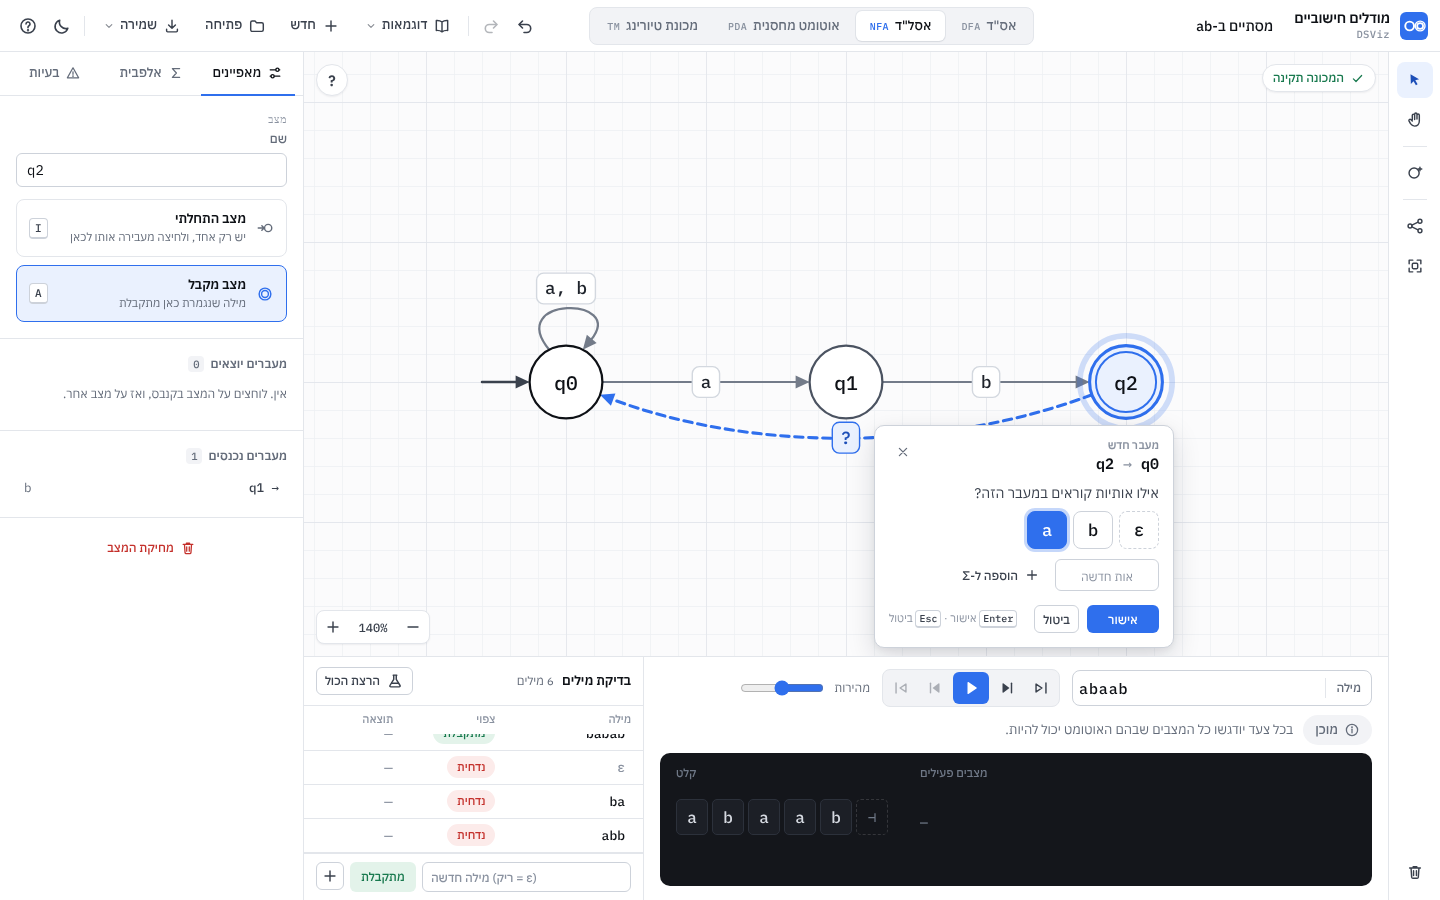
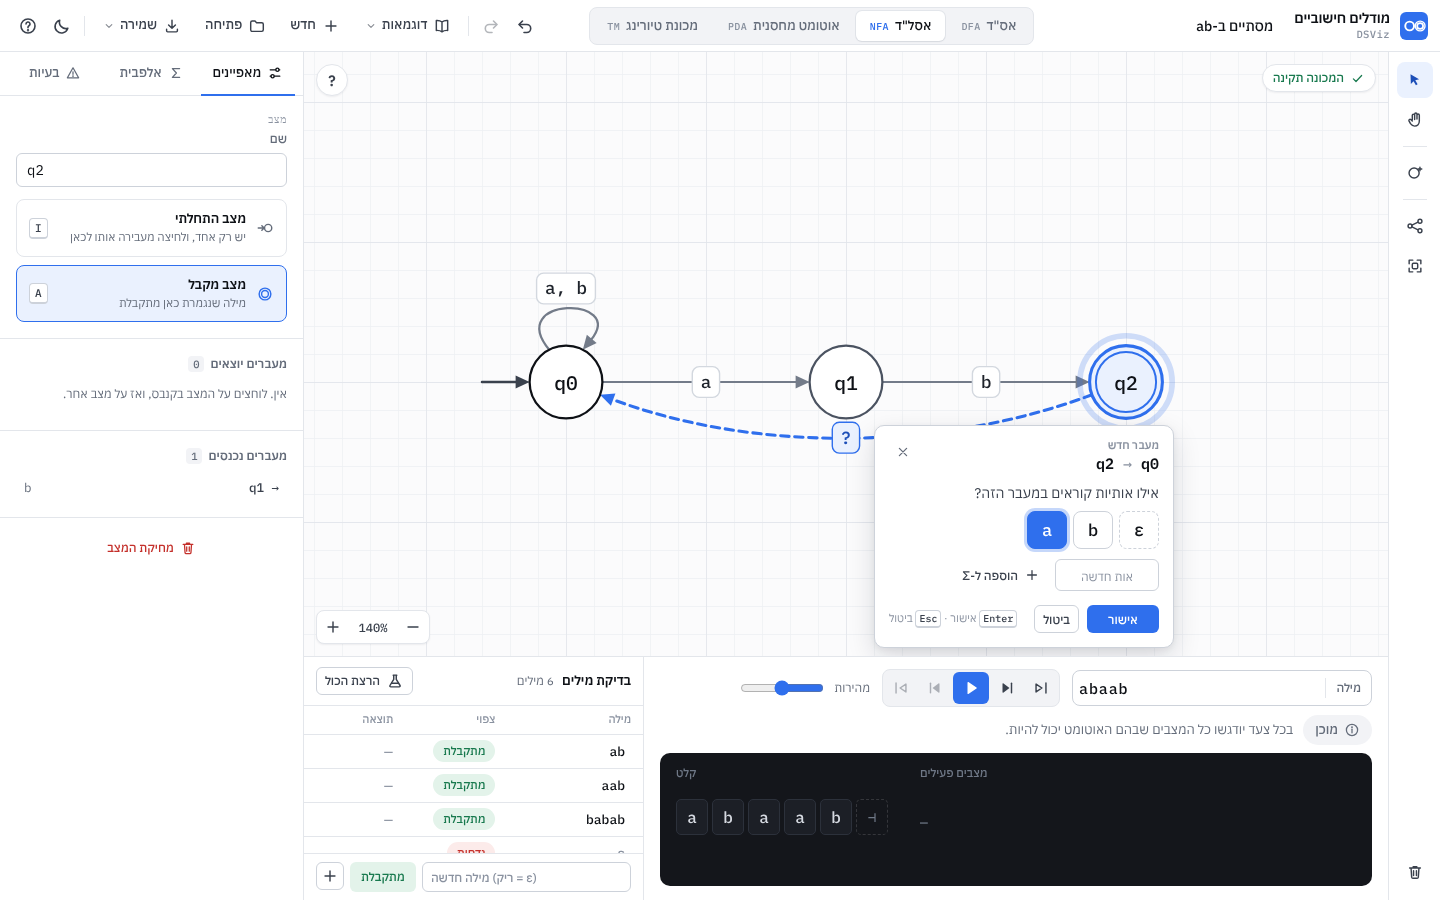
מודלים חישוביים: רמזים לפי מה שחסר, ההדרכה לא מסתירה את המכונה, תיקון לחיצה על הקנבס
- App.coach: רמז קצר למעלה (מצב שני, מעבר ראשון, מצב מקבל).
- כרטיס ההדרכה הצף מזיז את המכונה הצידה במקום להסתיר אותה.
- באג: data-tool על הקנבס גרם ללחיצה על רקע להפעיל setTool ולבטל מעבר שהתחיל.
- e2e/flow.js בודק גם את הרמז. צילומים מעודכנים.

Claude-Session: https://claude.ai/code/session_01UCquMSqFVSTwN4KTsZFYci

Changed region(s): [[0.2812, 0.8089, 0.3438, 0.9333], [0.4062, 0.8711, 0.4375, 0.9333], [0.4062, 0.8089, 0.4375, 0.84]]

diff --git a/java-visualizer/automata/app/js/app.js b/java-visualizer/automata/app/js/app.js
@@ -47,7 +47,7 @@
       this.bindKeys();
       this.renderExamplesMenu();
       this.switchType(this.active, true);
-      requestAnimationFrame(() => { if (!this.machine.view.placed) { this.canvas.fit(); this.machine.view.placed = true; } });
+      requestAnimationFrame(() => { if (!this.machine.view.placed) { const g = root.Guide.el; this.canvas.fit(g.hidden || g.dataset.mode !== 'float' ? 0 : g.offsetWidth + 24); this.machine.view.placed = true; } });
     },
 
     load() {
@@ -137,7 +137,7 @@
       const quiet = keepArm;
       this.sel.states = new Set(states || []);
       this.sel.trans = new Set(trans || []);
-      if (!keepArm && this.canvas.source) { this.canvas.source = null; this.hint(null); }
+      if (!keepArm && this.canvas.source) { this.canvas.source = null; this.coach(); }
       if (this.side.tab !== 'props' && (states.length || trans.length) && !quiet && this.side.tab !== 'issues') this.side.tab = 'props';
       this.canvas.render();
       this.side.render();
@@ -241,7 +241,7 @@
       this.tool = t;
       this.canvas.source = null;
       $$('.rail [data-tool]').forEach((b) => b.setAttribute('aria-pressed', String(b.dataset.tool === t)));
-      this.canvas.host.dataset.tool = t;
+      this.canvas.host.dataset.activeTool = t;
       this.hint(null);
     },
 
@@ -307,6 +307,18 @@
       this.runPanel.render();
       this.renderTop();
       root.Guide.update();
+      this.coach();
+    },
+
+    /** רמז קצר למעלה, לפי מה שחסר עכשיו (למי שבונה מכונה בפעם הראשונה). */
+    coach() {
+      if (!this.canvas || this.canvas.source || this.isRunning() || (this.popover && this.popover.isOpen())) return;
+      const m = this.machine;
+      let t = null;
+      if (m.states.length === 1) t = 'עוד לחיצה כפולה במקום אחר על הקנבס מוסיפה מצב שני';
+      else if (m.states.length >= 2 && !m.transitions.length) t = 'עכשיו מעבר: לוחצים על מצב, ואז על מצב אחר';
+      else if (m.transitions.length && !m.states.some((s) => s.accepting) && !(m.type === 'pda' && m.acceptBy === 'empty')) t = 'אין מצב מקבל: לוחצים על מצב, ובסרגל השחור בוחרים "מקבל"';
+      this.hint(t);
     },
 
     renderTop() {

diff --git a/java-visualizer/automata/app/js/canvas.js b/java-visualizer/automata/app/js/canvas.js
@@ -70,16 +70,19 @@
       this.closeEditor(true);
     }
     zoomBy(f) { const s = this.size(); this.zoomAt(s.w / 2, s.h / 2, f); this.app.autosave(); }
-    fit() {
+    /** inset: פיקסלים בצד שמאל של הקנבס שמכוסים (למשל בכרטיס ההדרכה), כדי שהמכונה תיכנס לידם. */
+    fit(inset) {
       const st = this.m.states;
       const s = this.size();
+      inset = inset && s.w - inset > 420 ? inset : 0;
+      s.w -= inset;
       if (!st.length) { this.view.x = s.w / 2; this.view.y = s.h / 2; this.view.zoom = 1; this.applyView(); return; }
       const xs = st.map((q) => q.x), ys = st.map((q) => q.y);
       const pad = 100;
       const minX = Math.min(...xs) - pad, maxX = Math.max(...xs) + pad, minY = Math.min(...ys) - pad - 40, maxY = Math.max(...ys) + pad;
       const z = Math.min(1.4, Math.max(0.4, Math.min(s.w / (maxX - minX), s.h / (maxY - minY))));
       this.view.zoom = Math.round(z * 1000) / 1000;
-      this.view.x = s.w / 2 - ((minX + maxX) / 2) * z;
+      this.view.x = inset + s.w / 2 - ((minX + maxX) / 2) * z;
       this.view.y = s.h / 2 - ((minY + maxY) / 2) * z;
       this.applyView();
     }
@@ -185,7 +188,7 @@
       this.host.classList.toggle('is-empty', !m.states.length);
       this.host.classList.toggle('arming', !!this.source);
       this.host.classList.toggle('running', app.isRunning());
-      this.host.dataset.tool = app.tool;
+      this.host.dataset.activeTool = app.tool;
     }
 
     /** חץ "גומי" מהמצב שנבחר כמקור אל הסמן (או אל המצב שמתחת לסמן). */

diff --git a/java-visualizer/automata/app/js/guide.js b/java-visualizer/automata/app/js/guide.js
@@ -49,11 +49,14 @@
       const empty = !this.app.machine.states.length;
       const show = empty || this.pinned;
       this.el.hidden = !show;
+      if (!show) this.el.dataset.mode = '';
       $('#guide-btn').setAttribute('aria-expanded', String(show));
       if (!show) return;
       const mode = empty ? 'empty' : 'float';
       if (this.el.dataset.mode === mode) return;
       this.el.dataset.mode = mode;
+      // הכרטיס הצף יושב בצד שמאל: מזיזים את המכונה כדי שלא תוסתר
+      if (mode === 'float') requestAnimationFrame(() => this.app.canvas.fit(this.el.offsetWidth + 24));
       this.el.innerHTML =
         '<div class="guide-head"><h2>' + (empty ? 'בונים מכונה בשלושה צעדים' : 'איך בונים') + '</h2>' +
         (empty ? '' : '<button type="button" class="pop-x" data-g="close" aria-label="סגירת ההדרכה">' + I.get('x', 16) + '</button>') + '</div>' +

diff --git a/java-visualizer/automata/app/css/canvas.css b/java-visualizer/automata/app/css/canvas.css
@@ -6,7 +6,7 @@
 .canvas { display: block; width: 100%; height: 100%; touch-action: none; user-select: none; -webkit-user-select: none; }
 .grid-line { fill: none; stroke: var(--grid); stroke-width: 1; vector-effect: non-scaling-stroke; }
 .grid-line-major { fill: none; stroke: var(--grid-major); stroke-width: 1; vector-effect: non-scaling-stroke; }
-.stage[data-tool=hand] .canvas, .stage.space .canvas { cursor: grab; }
+.stage[data-active-tool=hand] .canvas, .stage.space .canvas { cursor: grab; }
 .stage.panning .canvas { cursor: grabbing !important; }
 .stage.arming .canvas, .stage.arming .st { cursor: crosshair; }
 

diff --git a/java-visualizer/automata/app/e2e/flow.js b/java-visualizer/automata/app/e2e/flow.js
@@ -45,6 +45,7 @@ const URL = 'file://' + path.resolve(__dirname, '..', 'index.html');
     for (const dx of [-240, 0, 240]) { await p.mouse.dblclick(st.x + dx, st.y + (dx ? 0 : 110)); await p.waitForTimeout(150); }
     assert.deepEqual((await machine()).states, ['q0', 'q1', 'q2']);
     assert.equal(await visible('#guide'), false);
+    assert.match(await p.textContent('#hint'), /עכשיו מעבר/, 'רמז: מה עושים עכשיו');
   });
 
   await step('לחיצה על מצב: הוא המקור, וחץ מקווקו הולך אחרי הסמן', async () => {

diff --git a/java-visualizer/automata/app/js/app-ui.js b/java-visualizer/automata/app/js/app-ui.js
@@ -107,7 +107,7 @@
         if (ex) { this.toggleMenu('examples-menu', null, false); this.loadExample(ex.dataset.example); return; }
         const b = e.target.closest('[data-cmd]');
         if (b && !b.disabled) { cmd(b.dataset.cmd, b); return; }
-        const tool = e.target.closest('[data-tool]');
+        const tool = e.target.closest('.rail [data-tool]');
         if (tool) { this.setTool(tool.dataset.tool); return; }
         const tab = e.target.closest('#type-tabs [data-type]');
         if (tab) { this.switchType(tab.dataset.type); return; }

diff --git a/java-visualizer/automata/app/js/popover.js b/java-visualizer/automata/app/js/popover.js
@@ -41,6 +41,7 @@
       this.app.canvas.preview = t ? null : { from: this.from, to: this.to };
       this.el.hidden = false;
       this.app.canvas.host.classList.add('popping');
+      this.app.hint(null);
       this.app.canvas.render();
       this.draw();
       this.reposition();
@@ -219,6 +220,7 @@
       this.rows = null;
       this.app.canvas.preview = null;
       this.app.canvas.render();
+      this.app.coach();
     }
 
     /** ליד התווית של הקשת: מתחתיה אם יש מקום, אחרת מעליה. */

diff --git a/java-visualizer/automata/app/js/canvas-input.js b/java-visualizer/automata/app/js/canvas-input.js
@@ -60,7 +60,8 @@
     /** מתחיל מעבר מהמצב sid (החץ המקווקו), או מבטל (sid = null). */
     arm(sid) {
       this.source = sid || null;
-      this.app.hint(sid ? 'לחצו על מצב אחר כדי ליצור מעבר. לחיצה על אותו מצב: לולאה. Esc: ביטול' : null);
+      if (sid) this.app.hint('לחצו על מצב אחר כדי ליצור מעבר. לחיצה על אותו מצב: לולאה. Esc: ביטול');
+      else this.app.coach();
       this.render();
     },
 

diff --git a/java-visualizer/automata/app/e2e/screens.js b/java-visualizer/automata/app/e2e/screens.js
@@ -53,6 +53,7 @@ const URL = 'file://' + path.resolve(__dirname, '..', 'index.html');
   await shot(p, 'ours-error');
   await p.keyboard.press('Escape');
   await p.keyboard.press('Control+z');
+  await click(p, { x: q1.x + 160, y: q1.y - 180 });
   await p.click('[data-tab=props]');
 
   // ריחוף: פח על מצב, ואז חלון האישור

diff --git a/java-visualizer/automata/app/js/app-run.js b/java-visualizer/automata/app/js/app-run.js
@@ -32,6 +32,7 @@
       this.run = { trace, index: 0, playing: false };
       this.sel = { states: new Set(), trans: new Set() };
       this.side.render();
+      this.hint(null);
       this.canvas.closeEditor();
       return true;
     },
